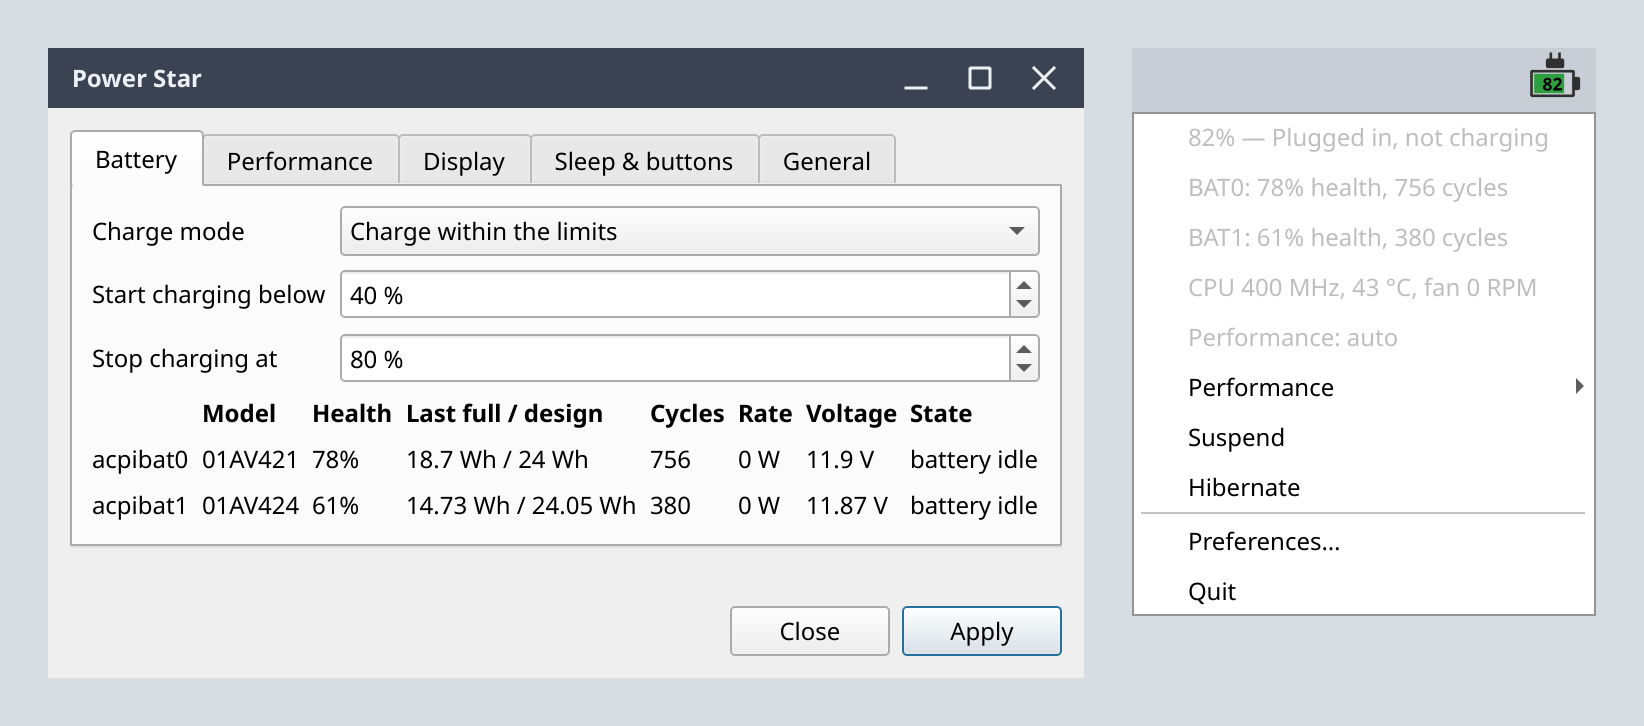
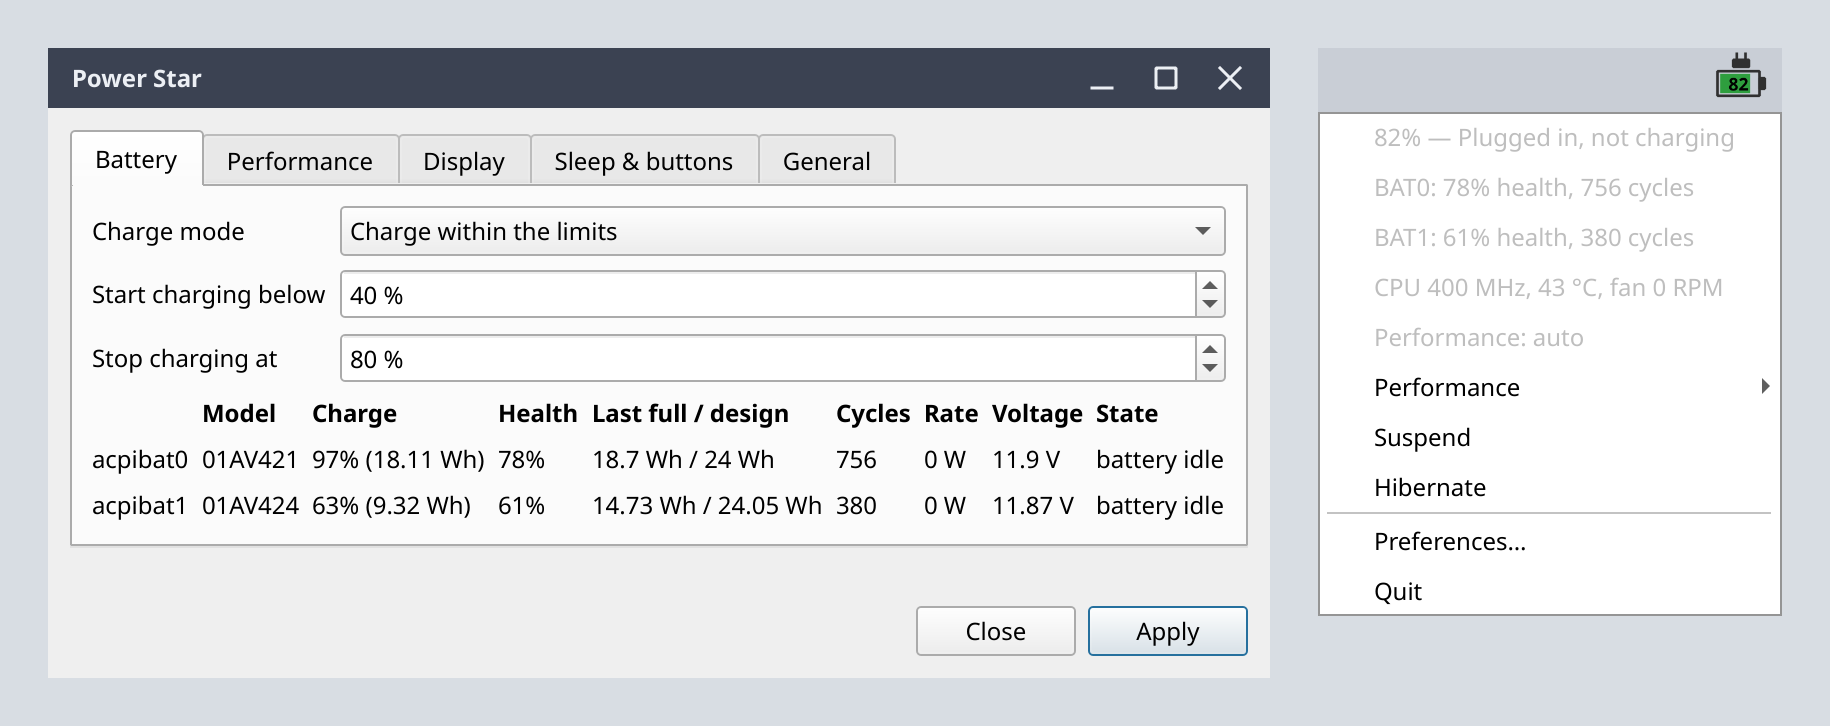
Battery tab: show each battery's charge and refresh the table live

diff --git a/powerstar/ui/prefs.py b/powerstar/ui/prefs.py
@@ -118,21 +118,28 @@ class Preferences(QDialog):
         self._row(form, "Charge mode", self.chargemode, "hw.battery.chargemode")
         self._row(form, "Start charging below", self.chargestart, "hw.battery.chargestart")
         self._row(form, "Stop charging at", self.chargestop, "hw.battery.chargestop")
-        grid = QGridLayout()
-        bats = self.state.sensors.batteries
-        for col, head in enumerate(["", "Model", "Health", "Last full / design", "Cycles", "Rate", "Voltage", "State"]):
+        self.battery_grid = QGridLayout()
+        form.addRow(self.battery_grid)
+        self.show_batteries(self.state)
+        return tab
+
+    def show_batteries(self, state: State) -> None:
+        """(Re)fill the battery table; the tray calls this on every status check."""
+        grid = self.battery_grid
+        while grid.count():
+            grid.takeAt(0).widget().deleteLater()
+        for col, head in enumerate(["", "Model", "Charge", "Health", "Last full / design", "Cycles", "Rate", "Voltage", "State"]):
             grid.addWidget(QLabel(f"<b>{head}</b>"), 0, col)
         fmt = lambda v, unit: "?" if v is None else f"{v:g} {unit}"
-        for row, b in enumerate(bats, 1):
-            cells = [b.name, b.model or "?", "?" if b.health_percent is None else f"{b.health_percent}%",
+        pct = lambda v: "?" if v is None else f"{v}%"
+        for row, b in enumerate(state.sensors.batteries, 1):
+            cells = [b.name, b.model or "?", f"{pct(b.charge_percent)} ({fmt(b.remaining_wh, 'Wh')})", pct(b.health_percent),
                      f"{fmt(b.last_full_wh, 'Wh')} / {fmt(b.design_wh, 'Wh')}", fmt(b.cycles, ""),
                      fmt(b.rate_w, "W"), fmt(b.voltage, "V"), b.status or "?"]  # fmt: skip
             for col, text in enumerate(cells):
                 grid.addWidget(QLabel(text), row, col)
-        if not bats:
+        if not state.sensors.batteries:
             grid.addWidget(QLabel("No battery"), 1, 0)
-        form.addRow(grid)
-        return tab
 
     def _performance_tab(self) -> QWidget:
         tab = QWidget()

diff --git a/tests/test_ui_smoke.py b/tests/test_ui_smoke.py
@@ -85,6 +85,15 @@ class PreferencesTest(unittest.TestCase):
         p = Preferences(state, userconfig.load(Path(os.devnull)), sys, FakeElevator(), lambda lines: True)
         self.assertEqual(set(p.letters), {"S", "P", "E"})
 
+    def test_battery_table_shows_and_refreshes_charge(self):
+        p = self.prefs()
+        cell = lambda: p.battery_grid.itemAtPosition(1, 2).widget().text()
+        self.assertEqual(cell(), "97% (18.11 Wh)")
+        state = read_state(make_sys())
+        state.sensors.batteries[0].remaining_wh = 9.35
+        p.show_batteries(state)
+        self.assertEqual(cell(), "50% (9.35 Wh)")
+
     def test_no_battery_keys_disables_charge_controls(self):
         out = "".join(l + "\n" for l in section("hw").splitlines() if not l.startswith("hw.battery"))
         p = self.prefs(make_sys(out))

diff --git a/tests/test_readings.py b/tests/test_readings.py
@@ -33,6 +33,7 @@ class ParseTest(unittest.TestCase):
         self.assertEqual((b0.name, b0.health_percent, b0.status, b0.cycles), ("acpibat0", 78, "battery idle", 756))
         self.assertEqual((b0.remaining_wh, b0.rate_w, b0.voltage), (18.11, 0.0, 11.90))
         self.assertEqual(b1.cycles, 380)
+        self.assertEqual((b0.charge_percent, b1.charge_percent), (97, 63))  # 18.11/18.70, 9.32/14.73
         self.assertEqual((s.fan_rpm, s.lid_open, s.cpu_temp), (0, True, 43.0))
 
     def test_cpu_temp_falls_back_to_acpitz(self):

diff --git a/powerstar/readings.py b/powerstar/readings.py
@@ -37,6 +37,12 @@ class Battery:
     cycles: int | None = None
 
     @property
+    def charge_percent(self) -> int | None:
+        if self.remaining_wh is None or not self.last_full_wh:
+            return None
+        return round(self.remaining_wh / self.last_full_wh * 100)
+
+    @property
     def health_percent(self) -> int | None:
         if not self.last_full_wh or not self.design_wh:
             return None

diff --git a/powerstar/ui/tray.py b/powerstar/ui/tray.py
@@ -87,6 +87,8 @@ class Tray(QSystemTrayIcon):
             return  # keep the last good display
         self.state = state
         self._show(state)
+        if self.prefs is not None and self.prefs.isVisible():
+            self.prefs.show_batteries(state)
         apm = state.apm
         if apm is None or apm.percent is None:
             return

diff --git a/README.md b/README.md
@@ -47,7 +47,7 @@ The tray icon shows the charge level, a lightning bolt while charging and a plug
 
 | Tab            | What it drives                                                                                      |
 |----------------|-----------------------------------------------------------------------------------------------------|
-| Battery        | `hw.battery.chargemode`, `chargestart`, `chargestop`; per-battery health, cycles, rate, voltage     |
+| Battery        | `hw.battery.chargemode`, `chargestart`, `chargestop`; per-battery charge, health, cycles, rate, voltage |
 | Performance    | `hw.perfpolicy` (on AC and on battery), `hw.setperf`, `hw.blockcpu` (hyper-threads, P, E, L cores)  |
 | Display        | Brightness (`xbacklight`) and screen off time (`xset` DPMS)                                         |
 | Sleep & buttons| `machdep.lidaction`, `machdep.pwraction`, automatic suspend or hibernate at a battery % (`apmd -z`, `-Z`) |
